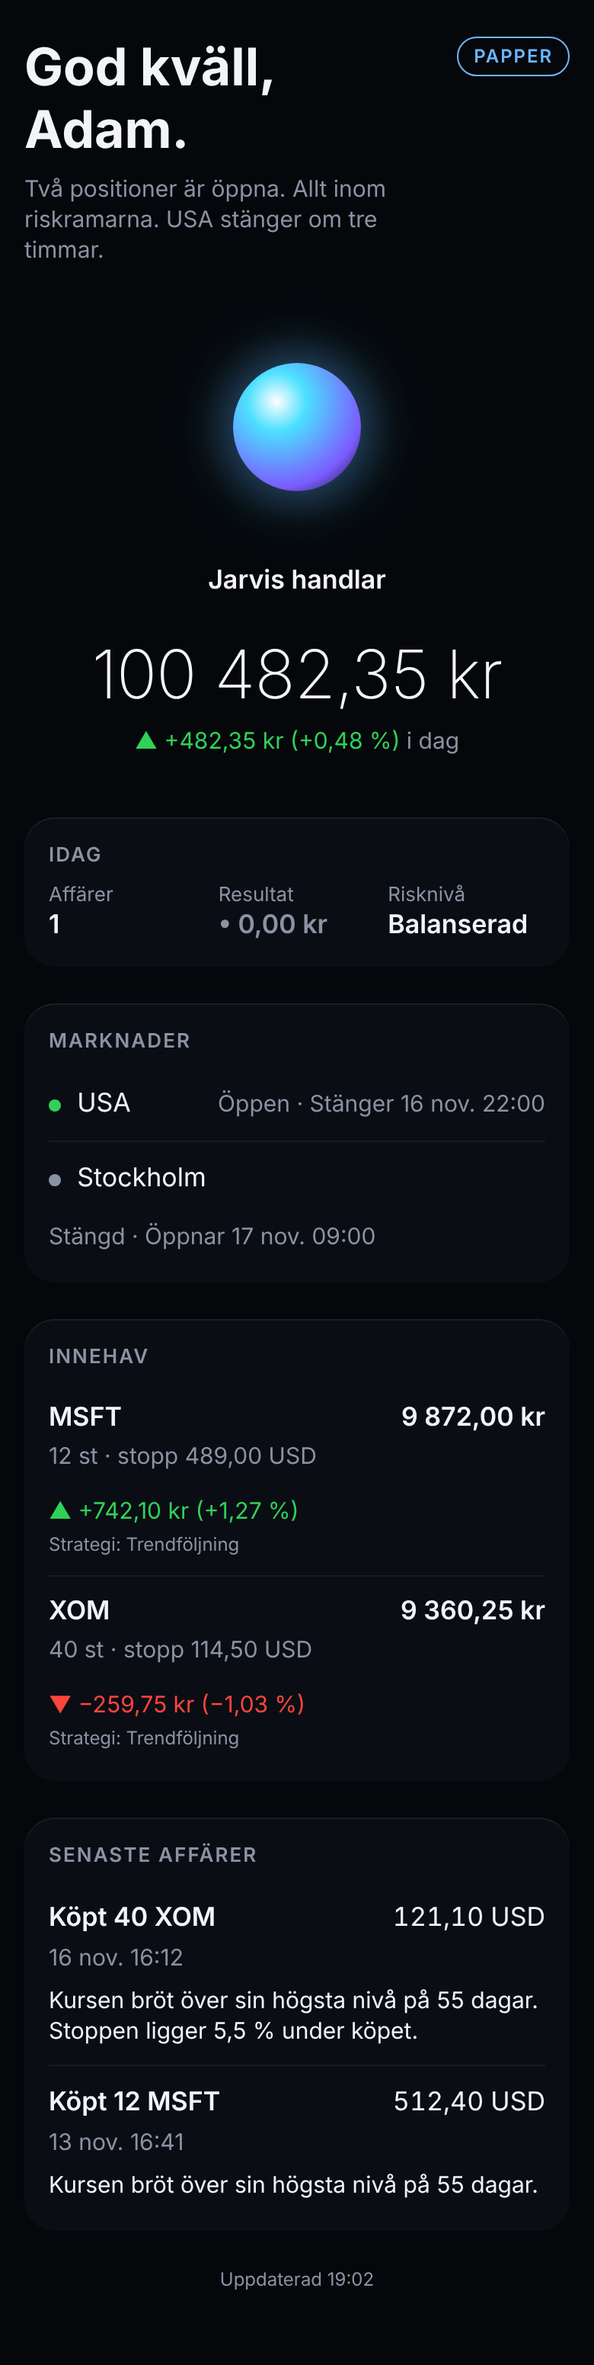
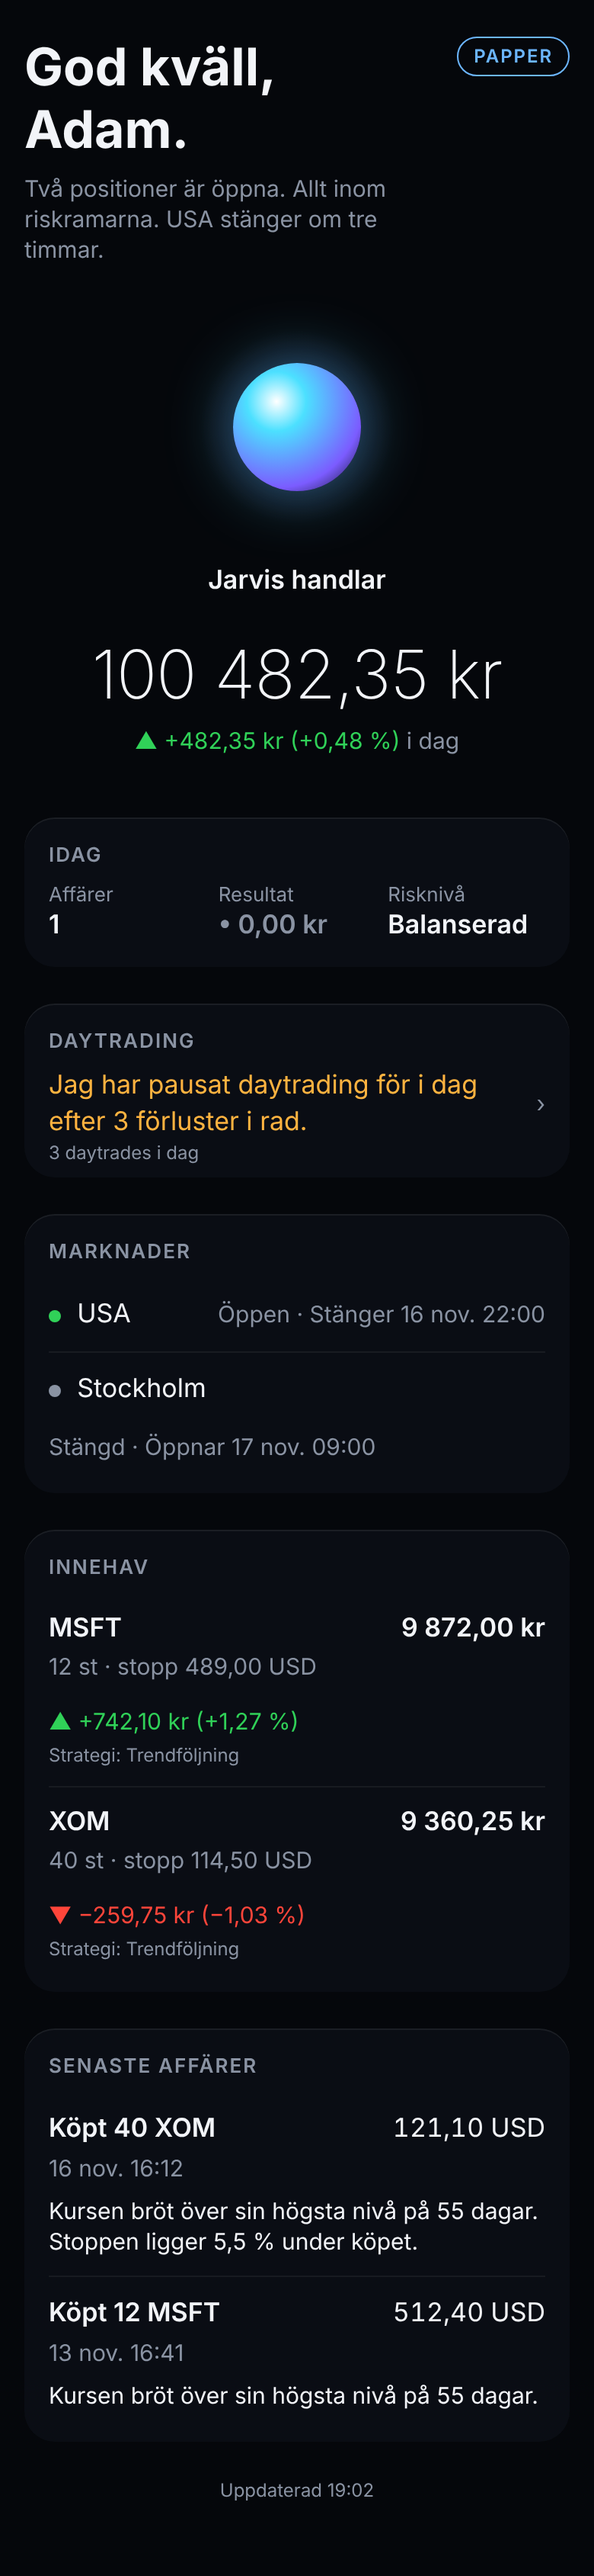
Jarvis: day-trading view in the app
- /daytrading page and a home-screen card: status in Swedish, open count,
  today's result in base currency, losses in a row, rules and today's trades
- Playwright checks and screenshots (phone and desktop, empty state)
- Prices in explanations use a decimal comma

Claude-Session: https://claude.ai/code/session_01QLZfRpD1UDV5epZRwa6fE3

diff --git a/jarvis/web/components/Daytrading.tsx b/jarvis/web/components/Daytrading.tsx
@@ -1,0 +1,159 @@
+"use client";
+
+import Link from "next/link";
+import { useQuery } from "@tanstack/react-query";
+
+import { api, type DayTrade, type Daytrading as DaytradingData } from "@/lib/api";
+import { arrowFor, formatDecimal, formatMoney, formatTime, signOf } from "@/lib/format";
+
+const PAUSED: DaytradingData["status"][] = ["losses_in_row", "daily_loss", "unknown"];
+
+export function statusTone(status: DaytradingData["status"]): "warning" | "calm" {
+  return PAUSED.includes(status) ? "warning" : "calm";
+}
+
+function Result({ amount, currency }: { amount: string; currency: string }) {
+  const sign = signOf(amount);
+  return (
+    <span className="change" data-sign={sign}>
+      <span aria-hidden="true">{arrowFor(sign)}</span> {formatMoney(amount, currency, true)}
+    </span>
+  );
+}
+
+function DayTradeRow({ trade }: { trade: DayTrade }) {
+  return (
+    <li className="item">
+      <div className="item-head">
+        <span className="headline">
+          {trade.symbol} · {formatDecimal(String(trade.quantity), 0)} st
+        </span>
+        {trade.result !== null ? (
+          <Result amount={trade.result} currency={trade.currency} />
+        ) : (
+          <span className="pill">Öppen</span>
+        )}
+      </div>
+      <div className="secondary">
+        Köpt {formatTime(trade.opened_at)}
+        {trade.buy_price !== null && ` för ${formatMoney(trade.buy_price, trade.currency)}`}
+        {trade.closed_at !== null && ` · Såld ${formatTime(trade.closed_at)}`}
+        {trade.sell_price !== null && ` för ${formatMoney(trade.sell_price, trade.currency)}`}
+      </div>
+      {trade.explanation_sv !== null && <p className="explanation">{trade.explanation_sv}</p>}
+    </li>
+  );
+}
+
+/** The day-trading line on the home screen; the details are one tap away. */
+export function DaytradingCard({ data }: { data: DaytradingData }) {
+  return (
+    <section className="card" aria-labelledby="daytrading-h">
+      <h2 id="daytrading-h" className="label">Daytrading</h2>
+      <Link className="link-row" href="/daytrading">
+        <span className="status-line" data-tone={statusTone(data.status)}>
+          {data.status_sv}
+        </span>
+        <span className="secondary" aria-hidden="true">›</span>
+      </Link>
+      <p className="caption">
+        {data.trades.length === 0
+          ? "Inga daytrades i dag."
+          : `${data.trades.length} daytrades i dag`}
+      </p>
+    </section>
+  );
+}
+
+export function Daytrading() {
+  const query = useQuery({ queryKey: ["daytrading"], queryFn: api.daytrading });
+
+  return (
+    <div className="page">
+      <Link className="back" href="/">
+        ‹ Hem
+      </Link>
+      <h1 className="large-title">Daytrading</h1>
+      {query.isError && query.data === undefined ? (
+        <div className="empty">
+          <p>Jag når inte servern just nu.</p>
+          <button className="button" type="button" onClick={() => void query.refetch()}>
+            Försök igen
+          </button>
+        </div>
+      ) : query.data === undefined ? (
+        <div className="skeleton skeleton-card" aria-busy="true" aria-label="Laddar" />
+      ) : (
+        <DaytradingDetails data={query.data} />
+      )}
+    </div>
+  );
+}
+
+function DaytradingDetails({ data }: { data: DaytradingData }) {
+  return (
+    <div className="columns">
+      <div className="column">
+        <section className="card" aria-labelledby="dt-status-h">
+          <h2 id="dt-status-h" className="label">Läge</h2>
+          <p className="status-line" data-tone={statusTone(data.status)} role="status">
+            {data.status_sv}
+          </p>
+          <ul className="list facts">
+            <li className="row">
+              <span>Öppna</span>
+              <span>{data.open_count !== null ? `${data.open_count} av ${data.max_open}` : "–"}</span>
+            </li>
+            <li className="row">
+              <span>Resultat i dag</span>
+              {data.day_result !== null ? (
+                <Result amount={data.day_result} currency={data.base_currency} />
+              ) : (
+                <span>–</span>
+              )}
+            </li>
+            <li className="row">
+              <span>Förluster i rad</span>
+              <span>
+                {data.losses_in_row !== null
+                  ? `${data.losses_in_row} av ${data.pause_after_losses}`
+                  : "–"}
+              </span>
+            </li>
+          </ul>
+        </section>
+        <section className="card" aria-labelledby="dt-rules-h">
+          <h2 id="dt-rules-h" className="label">Regler</h2>
+          <ul className="list secondary">
+            <li>Köper när kursen bryter över de första minuternas högsta nivå.</li>
+            <li>Samma aktie igen bara efter en ny högsta nivå för dagen, högst 3 gånger.</li>
+            <li>Högst {data.max_open} daytrades öppna samtidigt.</li>
+            <li>
+              Pausar för dagen vid {formatDecimal(String(data.max_daily_loss_pct), 1)} % förlust
+              eller {data.pause_after_losses} förluster i rad.
+            </li>
+            <li>Säljer allt 15 minuter före börsens slut.</li>
+          </ul>
+        </section>
+      </div>
+      <div className="column">
+        <section className="card" aria-labelledby="dt-trades-h">
+          <h2 id="dt-trades-h" className="label">I dag</h2>
+          {data.trades.length === 0 ? (
+            <div className="empty">
+              <p>Inga daytrades i dag.</p>
+              <p className="secondary">Varje daytrade visas här med köp, försäljning och resultat.</p>
+            </div>
+          ) : (
+            <ul className="list">
+              {data.trades.map((t) => (
+                <DayTradeRow key={t.id} trade={t} />
+              ))}
+            </ul>
+          )}
+        </section>
+        <p className="caption footer">Uppdaterad {formatTime(data.as_of)}</p>
+      </div>
+    </div>
+  );
+}

diff --git a/jarvis/web/lib/api.ts b/jarvis/web/lib/api.ts
@@ -77,6 +77,44 @@ export interface Today {
   risk_level_sv: string;
 }
 
+export type DaytradingStatus =
+  | "not_validated"
+  | "market_closed"
+  | "active"
+  | "full"
+  | "losses_in_row"
+  | "daily_loss"
+  | "closing"
+  | "unknown";
+
+export interface DayTrade {
+  id: string;
+  symbol: string;
+  currency: string;
+  quantity: number;
+  buy_price: string | null;
+  sell_price: string | null;
+  result: string | null;
+  is_open: boolean;
+  opened_at: string;
+  closed_at: string | null;
+  explanation_sv: string | null;
+}
+
+export interface Daytrading {
+  status: DaytradingStatus;
+  status_sv: string;
+  open_count: number | null;
+  max_open: number;
+  day_result: string | null;
+  base_currency: string;
+  losses_in_row: number | null;
+  max_daily_loss_pct: number;
+  pause_after_losses: number;
+  trades: DayTrade[];
+  as_of: string;
+}
+
 /** Property names per contract type, compared with the JSON Schema by `npm test`. */
 export const CONTRACT_KEYS = {
   StatusOut: ["mode", "trading_state", "reasons", "broker_connected", "markets", "briefing_sv", "as_of"],
@@ -93,6 +131,14 @@ export const CONTRACT_KEYS = {
     "explanation_sv",
   ],
   TodayOut: ["trades_count", "realized_pnl", "risk_level_sv"],
+  DaytradingOut: [
+    "status", "status_sv", "open_count", "max_open", "day_result", "base_currency",
+    "losses_in_row", "max_daily_loss_pct", "pause_after_losses", "trades", "as_of",
+  ],
+  DayTradeOut: [
+    "id", "symbol", "currency", "quantity", "buy_price", "sell_price", "result", "is_open",
+    "opened_at", "closed_at", "explanation_sv",
+  ],
 } as const;
 
 const TIMEOUT_MS = 8000;
@@ -113,4 +159,5 @@ export const api = {
   portfolio: () => get<Portfolio>("/portfolio"),
   trades: (limit: number) => get<Trades>(`/trades?limit=${limit}`),
   today: () => get<Today>("/today"),
+  daytrading: () => get<Daytrading>("/daytrading"),
 };

diff --git a/jarvis/web/components/Home.tsx b/jarvis/web/components/Home.tsx
@@ -2,6 +2,7 @@
 
 import { useQuery } from "@tanstack/react-query";
 
+import { DaytradingCard } from "@/components/Daytrading";
 import { Orb, orbTone } from "@/components/Orb";
 import { api, type Market, type Portfolio, type Position, type Status, type Trade } from "@/lib/api";
 import {
@@ -139,6 +140,7 @@ export function Home() {
   const portfolio = useQuery({ queryKey: ["portfolio"], queryFn: api.portfolio });
   const trades = useQuery({ queryKey: ["trades"], queryFn: () => api.trades(10) });
   const today = useQuery({ queryKey: ["today"], queryFn: api.today });
+  const daytrading = useQuery({ queryKey: ["daytrading"], queryFn: api.daytrading });
   const queries = [status, portfolio, trades, today];
 
   if (queries.some((q) => q.isError && q.data === undefined)) {
@@ -197,6 +199,8 @@ export function Home() {
               </div>
             </dl>
           </section>
+
+          {daytrading.data !== undefined && <DaytradingCard data={daytrading.data} />}
 
           <section className="card" aria-labelledby="markets-h">
             <h2 id="markets-h" className="label">Marknader</h2>

diff --git a/jarvis/web/app/globals.css b/jarvis/web/app/globals.css
@@ -357,3 +357,48 @@ ul {
     animation: none;
   }
 }
+
+/* Day trading */
+.back {
+  font: var(--text-body);
+  color: var(--color-glow-from);
+  text-decoration: none;
+  align-self: start;
+  min-height: 44px;
+  display: inline-flex;
+  align-items: center;
+}
+
+.link-row {
+  display: flex;
+  justify-content: space-between;
+  align-items: center;
+  gap: var(--space-2);
+  min-height: 44px;
+  color: inherit;
+  text-decoration: none;
+}
+
+.status-line {
+  font: var(--text-body);
+}
+
+.status-line[data-tone="warning"] {
+  color: var(--color-warning);
+}
+
+.pill {
+  font: var(--text-footnote);
+  padding: 2px 10px;
+  border-radius: var(--radius-pill);
+  background: var(--color-surface-raised);
+  color: var(--color-text-secondary);
+}
+
+.facts {
+  margin-top: var(--space-2);
+}
+
+.facts .change {
+  white-space: nowrap;
+}

diff --git a/jarvis/web/app/daytrading/page.tsx b/jarvis/web/app/daytrading/page.tsx
@@ -1,0 +1,5 @@
+import { Daytrading } from "@/components/Daytrading";
+
+export default function DaytradingPage() {
+  return <Daytrading />;
+}

diff --git a/jarvis/backend/src/jarvis/runner/daytrade.py b/jarvis/backend/src/jarvis/runner/daytrade.py
@@ -266,12 +266,13 @@ class DayTrader:
                 expected_edge=Decimal(str(edge_r)) * risk_amount,
                 estimated_cost=Decimal(str(round_trip)) * quote.fx_to_base,
                 explanation_sv=(
-                    f"Daytrade igen: kursen bröt över dagens högsta nivå ({setup.level}). "
+                    "Daytrade igen: kursen bröt över dagens högsta nivå "
+                    f"({price_sv(setup.level)}). "
                     if again
                     else f"Daytrade: kursen bröt över de första {params.range_minutes} "
-                    f"minuternas högsta nivå ({setup.level}). "
+                    f"minuternas högsta nivå ({price_sv(setup.level)}). "
                 )
-                + f"Stopp vid öppningsintervallets lägsta nivå {stop}.",
+                + f"Stopp vid öppningsintervallets lägsta nivå {price_sv(stop)}.",
                 features={"level": str(setup.level), "range_low": str(stop)},
             )
         )
@@ -309,3 +310,8 @@ def day_status(results: list[Decimal], equity: Decimal, risk: Risk, *, open_coun
     if open_count >= risk.concurrency.max_concurrent_daytrades:
         return Status.FULL
     return Status.ACTIVE
+
+
+def price_sv(value: Decimal) -> str:
+    """A price the Swedish way for explanations, e.g. 151,95."""
+    return f"{value:.2f}".replace(".", ",")

diff --git a/jarvis/backend/src/jarvis/runner/loop.py b/jarvis/backend/src/jarvis/runner/loop.py
@@ -27,7 +27,7 @@ from jarvis.markets.calendar import CalendarRangeError, Exchange, session_at
 from jarvis.research.costs import CostModel
 from jarvis.risk.profiles import apply_profile
 from jarvis.risk.sizing import size_position
-from jarvis.runner.daytrade import DayTrader
+from jarvis.runner.daytrade import DayTrader, price_sv
 from jarvis.store.repo import Store
 from jarvis.strategy.bars import Bar
 from jarvis.strategy.trend import (
@@ -276,7 +276,8 @@ class Runner:
                 estimated_cost=Decimal(str(round_trip)) * quote.fx_to_base,
                 explanation_sv=(
                     f"Kursen stängde över sin högsta nivå på {item.params.entry_lookback} dagar "
-                    f"({setup.channel_high}). Stopp {stop}. Valideringen visar i snitt "
+                    f"({price_sv(setup.channel_high)}). Stopp {price_sv(stop)}. "
+                    "Valideringen visar i snitt "
                     f"{edge_text} gånger risken per affär."
                 ),
                 features={"channel_high": str(setup.channel_high), "atr": str(setup.atr)},

diff --git a/jarvis/docs/PROGRESS.md b/jarvis/docs/PROGRESS.md
@@ -2,6 +2,19 @@
 
 Nyast överst. Varje post: vad som gjorts, hur det verifierats och vad som är nästa steg.
 
+## 2026-11-16 — Daytrading-vyn i appen
+
+- `GET /api/daytrading` och sidan `/daytrading` (kort på hemskärmen, detaljer ett tryck
+  bort): läge på svenska (aktiv, pausad och varför, avstängd tills validering), öppna av max,
+  dagens resultat i kronor, förluster i rad, regler och dagens affärer med köp, försäljning
+  och resultat. Tomt läge och fel-läge finns.
+- Rättat fel: dagsförlusten för daytrading räknades i dollar men jämfördes med en gräns i
+  kronor. Nu räknas den om med aktuell växelkurs, och utan kurs öppnas inga nya daytrades.
+- Priser i förklaringarna skrivs med decimalkomma.
+- Daytradingens läge sparas i `strategy_state` (migrering 0006).
+- 558 backend-tester gröna, 100 % i risk, mäklare, order och ekonomi; Playwright-kontroller
+  med skärmdumpar i mobil- och datorstorlek (`docs/screenshots/daytrading-*`).
+
 ## 2026-11-16 — Köp bara för likvida pengar (A6)
 
 - `Account.settled_cash` (IBKR:s `SettledCash`) och `spendable`. Risk-motorn avvisar ett köp
